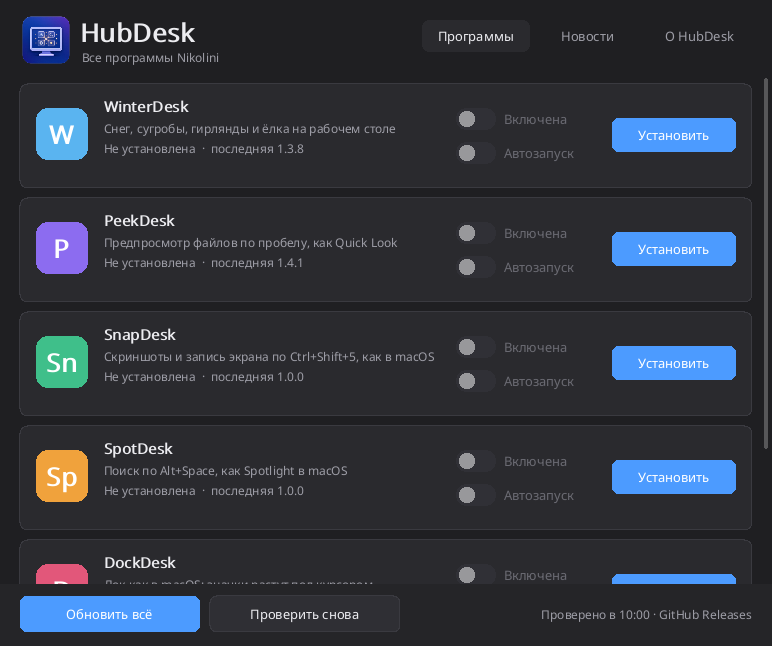
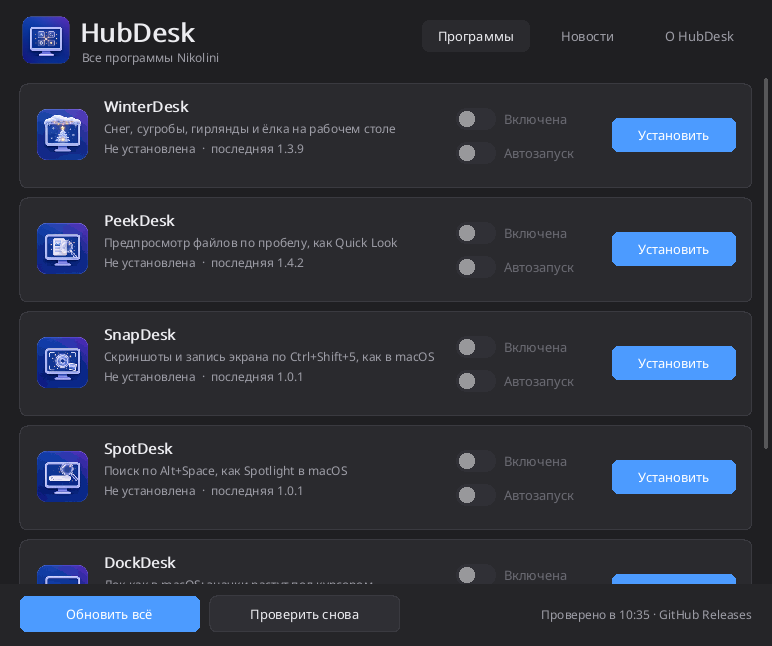
HubDesk 1.0.2: настоящие логотипы

diff --git a/docs/index.html b/docs/index.html
@@ -88,11 +88,11 @@ footer{padding:36px 0 50px;color:var(--sub);font-size:14.5px;text-align:center;b
   </div>
 
   <section id="new">
-    <h2>Что нового в 1.0.1</h2><p class="sub"><a href="https://github.com/NikoliniOFF/HubDesk/releases/latest">Все изменения на странице выпуска</a></p>
+    <h2>Что нового в 1.0.2</h2><p class="sub"><a href="https://github.com/NikoliniOFF/HubDesk/releases/latest">Все изменения на странице выпуска</a></p>
     <div class="grid">
-      <div class="card"><div class="ic">⬆</div><h3>Обновляется сам</h3><p>Вышла новая версия — сверху плашка «Обновить»: HubDesk скачает её, проверит SHA-256, заменит себя и перезапустится. Выключается в «О HubDesk».</p></div>
-      <div class="card"><div class="ic">✅</div><h3>Без ошибки 403</h3><p>Версии и новости берутся с обычных страниц GitHub без лимита запросов и запоминаются — «GitHub ответил 403» больше не появляется.</p></div>
-      <div class="card"><div class="ic">📰</div><h3>Новости без зависаний</h3><p>Никакого вечного «Загружаю…»: если загрузить не вышло, HubDesk так и скажет и предложит повторить. У 1.0.0 один раз скачайте новую версию вручную.</p></div>
+      <div class="card"><div class="ic">🖼</div><h3>Настоящие логотипы</h3><p>В списке программ и в новостях — логотипы WinterDesk, PeekDesk, SnapDesk, DockDesk, SpotDesk и IslandDesk вместо букв.</p></div>
+      <div class="card"><div class="ic">🔎</div><h3>Чётко и без сети</h3><p>Логотипы зашиты в сам exe: работают офлайн и не размываются на экранах с масштабом 100–200 %.</p></div>
+      <div class="card"><div class="ic">⬆</div><h3>Обновление в один щелчок</h3><p>Если у вас 1.0.1 — нажмите «Обновить» в плашке сверху. Если 1.0.0 — один раз скачайте новую версию вручную.</p></div>
     </div>
   </section>
 

diff --git a/README.md b/README.md
@@ -27,12 +27,10 @@
 
 ---
 
-## 🆕 Что нового в 1.0.1
+## 🆕 Что нового в 1.0.2
 
-- **HubDesk обновляется сам:** когда выходит новая версия, сверху появляется плашка «Обновить» — HubDesk скачает её, проверит SHA-256, заменит себя и перезапустится. Выключается в «О HubDesk».
-- **Больше нет ошибки «GitHub ответил 403»:** версии и новости берутся с обычных страниц GitHub без лимита запросов и запоминаются.
-- **Новости не зависают на «Загружаю…»:** если загрузить не вышло, HubDesk так и скажет и предложит повторить.
-- **Если у вас 1.0.0** — один раз скачайте 1.0.1 и запустите его: он сам заменит старую копию. Дальше HubDesk обновляется сам.
+- **Настоящие логотипы программ вместо букв** — в списке программ и в новостях. Они зашиты в exe, поэтому работают без сети и выглядят чётко на любом масштабе экрана.
+- Если у вас HubDesk 1.0.1 — просто нажмите «Обновить» в плашке сверху. Если 1.0.0 — один раз скачайте новую версию вручную.
 
 Все изменения — на [странице выпуска](https://github.com/NikoliniOFF/HubDesk/releases/latest).
 

diff --git a/release-notes/v1.0.2.md b/release-notes/v1.0.2.md
@@ -1,0 +1,19 @@
+## 🧩 HubDesk для Windows 1.0.2
+
+**Скачать:** `HubDesk-1.0.2-win64.zip` ниже (или постоянная ссылка `HubDesk-win64.zip`). Если у вас уже HubDesk 1.0.1 — ничего скачивать не нужно: сверху появится плашка «Обновить».
+
+### Что нового
+- Настоящие логотипы программ вместо букв: WinterDesk, PeekDesk, SnapDesk, DockDesk, SpotDesk и IslandDesk — в списке программ и на вкладке «Новости»
+- Логотипы зашиты в сам exe: работают без сети и без задержки, чёткие на любом масштабе экрана (100–200 %)
+- Для новой программы, у которой ещё нет логотипа в HubDesk, остаётся буква — список по-прежнему пополняется без обновления HubDesk
+
+### Подробнее
+- Файл вырос примерно на 35 КБ (все шесть логотипов внутри).
+- Сеть — как и в 1.0.1: только GitHub, без api.github.com.
+
+### Если Windows предупреждает
+SmartScreen может показать «Система Windows защитила ваш компьютер» — нажмите «Подробнее» → «Выполнить в любом случае».
+
+**Требования:** Windows 10 или 11, 64-бит.
+
+<!-- publish_release.sh сам допишет строку «SHA256 (HubDesk-1.0.2-win64.zip): …». -->
